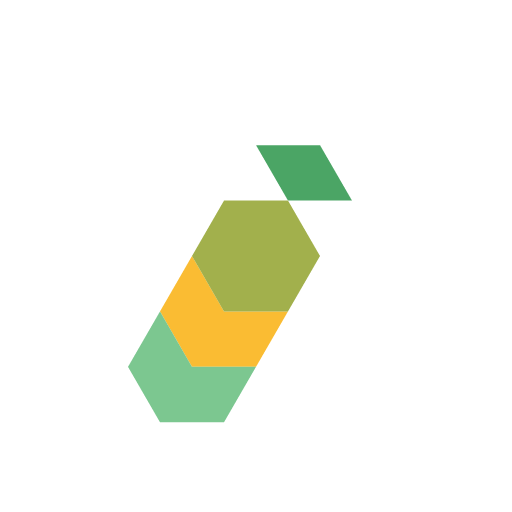
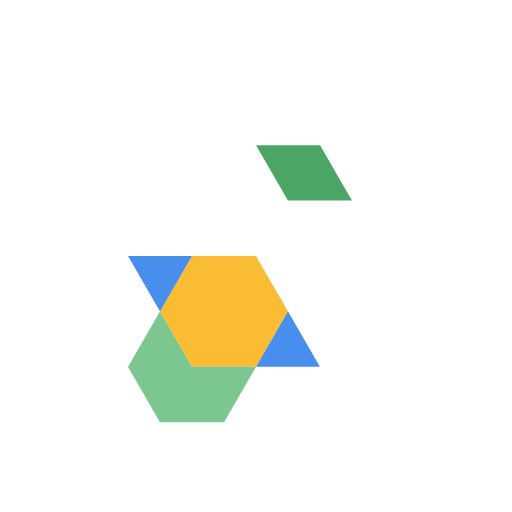
Restore polished emblem defaults

Changed region(s): [[0.25, 0.375, 0.625, 0.7188]]

diff --git a/src/generator/mod.rs b/src/generator/mod.rs
@@ -61,11 +61,9 @@ struct EmblemBlueprint {
 struct LayerSpec {
     min_radius: f64,
     max_radius: f64,
-    focus_radius: f64,
     targets: Vec<f64>,
     width: f64,
     fill_band: bool,
-    max_cells: usize,
 }
 
 impl Generator {
@@ -77,7 +75,7 @@ impl Generator {
             seed,
             grid: None,
             shapes: Vec::new(),
-            theme: Theme::Ink,
+            theme: Theme::Classic,
             allow_overlap: false,
             unique_shapes: false,
             classic_mode: false,
@@ -366,48 +364,38 @@ fn bilateral_blueprint(rng: &mut ChaCha8Rng, unique_shapes: bool) -> EmblemBluep
         shared_core: LayerSpec {
             min_radius: 0.0,
             max_radius: 0.16,
-            focus_radius: 0.08,
             targets: Vec::new(),
             width: 0.0,
             fill_band: true,
-            max_cells: 10,
         },
         layers: vec![
             LayerSpec {
                 min_radius: 0.12,
-                max_radius: 0.42,
-                focus_radius: 0.25,
-                targets: vec![axis - 22.0, axis + 22.0],
-                width: 13.5 + loosen,
+                max_radius: 0.46,
+                targets: vec![axis - 26.0, axis + 26.0],
+                width: 17.0 + loosen,
                 fill_band: false,
-                max_cells: 14,
             },
             LayerSpec {
                 min_radius: 0.18,
-                max_radius: 0.50,
-                focus_radius: 0.32,
+                max_radius: 0.62,
                 targets: vec![axis + 180.0],
-                width: 11.0,
+                width: 16.0,
                 fill_band: false,
-                max_cells: 8,
             },
             LayerSpec {
-                min_radius: 0.32,
-                max_radius: 0.58,
-                focus_radius: 0.46,
-                targets: vec![axis - 54.0, axis + 54.0],
-                width: 8.5 + loosen * 0.5,
-                fill_band: false,
-                max_cells: 8,
-            },
-            LayerSpec {
-                min_radius: 0.38,
-                max_radius: 0.64,
-                focus_radius: 0.52,
+                min_radius: 0.48,
+                max_radius: 0.80,
                 targets: vec![axis - 8.0, axis + 8.0],
-                width: 6.5 + loosen,
+                width: 9.0 + loosen * 0.5,
                 fill_band: false,
-                max_cells: 6,
+            },
+            LayerSpec {
+                min_radius: 0.30,
+                max_radius: 0.56,
+                targets: vec![axis - 54.0, axis + 54.0],
+                width: 10.0 + loosen,
+                fill_band: false,
             },
         ],
     }
@@ -421,40 +409,32 @@ fn triadic_blueprint(rng: &mut ChaCha8Rng, unique_shapes: bool) -> EmblemBluepri
         family: EmblemFamily::Triadic,
         shared_core: LayerSpec {
             min_radius: 0.0,
-            max_radius: 0.18,
-            focus_radius: 0.09,
+            max_radius: 0.20,
             targets: Vec::new(),
             width: 0.0,
             fill_band: true,
-            max_cells: 12,
         },
         layers: vec![
             LayerSpec {
-                min_radius: 0.12,
-                max_radius: 0.42,
-                focus_radius: 0.26,
-                targets: rotated_targets(axis + 12.0, 3, 120.0),
-                width: 12.5 + loosen,
-                fill_band: false,
-                max_cells: 15,
-            },
-            LayerSpec {
-                min_radius: 0.18,
+                min_radius: 0.14,
                 max_radius: 0.50,
-                focus_radius: 0.34,
-                targets: rotated_targets(axis + 72.0, 3, 120.0),
-                width: 9.0 + loosen,
+                targets: rotated_targets(axis + 12.0, 3, 120.0),
+                width: 15.0 + loosen,
                 fill_band: false,
-                max_cells: 10,
             },
             LayerSpec {
-                min_radius: 0.40,
-                max_radius: 0.64,
-                focus_radius: 0.50,
-                targets: rotated_targets(axis + 12.0, 3, 120.0),
-                width: 5.5 + loosen * 0.5,
+                min_radius: 0.22,
+                max_radius: 0.58,
+                targets: rotated_targets(axis + 72.0, 3, 120.0),
+                width: 12.0 + loosen,
                 fill_band: false,
-                max_cells: 6,
+            },
+            LayerSpec {
+                min_radius: 0.50,
+                max_radius: 0.82,
+                targets: rotated_targets(axis + 12.0, 3, 120.0),
+                width: 7.0 + loosen * 0.5,
+                fill_band: false,
             },
         ],
     }
@@ -468,40 +448,32 @@ fn hex_blueprint(rng: &mut ChaCha8Rng, unique_shapes: bool) -> EmblemBlueprint {
         family: EmblemFamily::Hex,
         shared_core: LayerSpec {
             min_radius: 0.0,
-            max_radius: 0.18,
-            focus_radius: 0.10,
+            max_radius: 0.22,
             targets: Vec::new(),
             width: 0.0,
             fill_band: true,
-            max_cells: 12,
         },
         layers: vec![
             LayerSpec {
-                min_radius: 0.14,
-                max_radius: 0.34,
-                focus_radius: 0.24,
+                min_radius: 0.18,
+                max_radius: 0.44,
                 targets: rotated_targets(axis, 6, 60.0),
-                width: 5.5 + loosen,
+                width: 8.5 + loosen,
                 fill_band: false,
-                max_cells: 12,
             },
             LayerSpec {
-                min_radius: 0.22,
-                max_radius: 0.50,
-                focus_radius: 0.36,
-                targets: vec![axis, axis + 60.0, axis + 180.0, axis + 240.0],
-                width: 7.5 + loosen,
-                fill_band: false,
-                max_cells: 10,
-            },
-            LayerSpec {
-                min_radius: 0.38,
+                min_radius: 0.28,
                 max_radius: 0.60,
-                focus_radius: 0.48,
-                targets: vec![axis + 30.0, axis + 150.0, axis + 270.0],
-                width: 5.5 + loosen * 0.5,
+                targets: vec![axis, axis + 60.0, axis + 180.0, axis + 240.0],
+                width: 10.0 + loosen,
                 fill_band: false,
-                max_cells: 6,
+            },
+            LayerSpec {
+                min_radius: 0.54,
+                max_radius: 0.76,
+                targets: vec![axis + 30.0, axis + 150.0, axis + 270.0],
+                width: 7.5 + loosen * 0.5,
+                fill_band: false,
             },
         ],
     }
@@ -521,49 +493,25 @@ fn rotated_targets(start: f64, repeats: usize, step: f64) -> Vec<f64> {
 }
 
 fn select_layer_cells(profiles: &[CellProfile], layer: &LayerSpec) -> Vec<usize> {
-    let mut scored = profiles
+    let mut cells = profiles
         .iter()
         .filter(|profile| {
             if profile.radius < layer.min_radius || profile.radius > layer.max_radius {
                 return false;
             }
-            true
-        })
-        .map(|profile| {
-            let radial_score = (profile.radius - layer.focus_radius).abs();
-            let angle_score = if layer.fill_band || layer.targets.is_empty() {
-                0.0
-            } else {
-                layer
-                    .targets
-                    .iter()
-                    .map(|target| angular_distance(profile.angle, *target))
-                    .fold(f64::INFINITY, f64::min)
-                    / layer.width.max(1.0)
-            };
 
-            let center_bias = if profile.radius > layer.focus_radius {
-                (profile.radius - layer.focus_radius) * 0.1
-            } else {
-                0.0
-            };
+            if layer.fill_band || layer.targets.is_empty() {
+                return true;
+            }
 
-            (profile.cell_id, radial_score + angle_score + center_bias)
+            layer
+                .targets
+                .iter()
+                .any(|target| angular_distance(profile.angle, *target) <= layer.width)
         })
+        .map(|profile| profile.cell_id)
         .collect::<Vec<_>>();
 
-    scored.sort_by(|left, right| {
-        left.1
-            .partial_cmp(&right.1)
-            .unwrap_or(Ordering::Equal)
-            .then_with(|| left.0.cmp(&right.0))
-    });
-
-    let mut cells = scored
-        .into_iter()
-        .take(layer.max_cells.max(1))
-        .map(|(cell_id, _)| cell_id)
-        .collect::<Vec<_>>();
     cells.sort_unstable();
     cells
 }
@@ -691,74 +639,5 @@ mod tests {
             .count();
 
         assert!(center_coverage > 0);
-    }
-
-    #[test]
-    fn modern_generation_is_not_limited_to_complete_rotational_orbits() {
-        let mut generator = Generator::new(5, 4, 0.8, Some(19));
-        generator.set_allow_overlap(false);
-        generator.generate().unwrap();
-
-        let grid = generator.grid().unwrap();
-        let center = grid.hex_grid().center;
-        let lookup = grid
-            .cells()
-            .iter()
-            .map(|cell| (point_key(cell.centroid), cell.id))
-            .collect::<std::collections::HashMap<_, _>>();
-
-        let shape = generator
-            .shapes()
-            .iter()
-            .find(|shape| !shape.is_empty())
-            .unwrap();
-
-        let has_partial_orbit = shape.cells.iter().any(|cell_id| {
-            let cell = grid.get_cell(*cell_id).unwrap();
-            let orbit_matches = (1..6)
-                .filter_map(|turns| {
-                    lookup_rotated_cell_id(grid, &lookup, cell.centroid, turns, center)
-                })
-                .filter(|rotated_id| shape.cells.contains(rotated_id))
-                .count();
-            orbit_matches > 0 && orbit_matches < 5
-        });
-
-        assert!(has_partial_orbit);
-    }
-
-    fn point_key(point: Point) -> (i64, i64) {
-        (
-            (point.x * 100_000.0).round() as i64,
-            (point.y * 100_000.0).round() as i64,
-        )
-    }
-
-    fn rotate_point(point: Point, turns: usize, center: Point) -> Point {
-        let angle = turns as f64 * std::f64::consts::PI / 3.0;
-        let translated_x = point.x - center.x;
-        let translated_y = point.y - center.y;
-
-        Point::new(
-            center.x + translated_x * angle.cos() - translated_y * angle.sin(),
-            center.y + translated_x * angle.sin() + translated_y * angle.cos(),
-        )
-    }
-
-    fn lookup_rotated_cell_id(
-        grid: &TriangularGrid,
-        lookup: &std::collections::HashMap<(i64, i64), usize>,
-        point: Point,
-        turns: usize,
-        center: Point,
-    ) -> Option<usize> {
-        let rotated = rotate_point(point, turns, center);
-
-        lookup.get(&point_key(rotated)).copied().or_else(|| {
-            grid.cells()
-                .iter()
-                .find(|cell| cell.centroid.distance(&rotated) < 1e-4)
-                .map(|cell| cell.id)
-        })
     }
 }

diff --git a/src/cli/mod.rs b/src/cli/mod.rs
@@ -28,8 +28,8 @@ pub struct Cli {
     #[arg(short, long)]
     pub uuid: Option<String>,
 
-    /// Color theme (ink, horizon, ember, citrus, orchid, classic, google, blues, greens, reds, purples, rainbow)
-    #[arg(short = 't', long = "theme", default_value = "ink")]
+    /// Color theme (classic, ink, horizon, ember, citrus, orchid, google, blues, greens, reds, purples, rainbow)
+    #[arg(short = 't', long = "theme", default_value = "classic")]
     pub theme: String,
 
     /// Number of shapes to generate

diff --git a/README.md b/README.md
@@ -15,7 +15,7 @@ The web frontend has been removed. The repo is intentionally focused on local CL
 
 - Random or seeded logo generation
 - SVG or PNG output
-- Emblem-first modern mode with bilateral, triadic, and restrained hex composition by default
+- Emblem-first modern mode with the polished centered composition restored as the default
 - Classic mode with a fixed 24-triangle layout
 - Multiple color themes: `ink`, `horizon`, `ember`, `citrus`, `orchid`, `classic`, `google`, `blues`, `greens`, `reds`, `purples`, `rainbow`
 - Clipboard copy support
@@ -34,7 +34,7 @@ nix develop -c cargo run -- --format svg output/logo.svg
 You can also use the app entrypoint directly:
 
 ```bash
-nix run . -- --seed 42 --theme ink output/logo.png
+nix run . -- --seed 42 --theme classic output/logo.png
 ```
 
 ### With a local Rust toolchain
@@ -54,7 +54,7 @@ hexalith [OPTIONS] [OUTPUT]
 Examples:
 
 ```bash
-# Default PNG output (`ink` theme)
+# Default PNG output (`classic` theme)
 cargo run -- output/logo.png
 
 # SVG with deterministic seed
@@ -113,4 +113,4 @@ nix develop -c cargo clippy --all-targets --all-features
 
 ## Rendering notes
 
-Modern mode now builds logos from seeded emblem blueprints instead of full six-way rotational orbits. The defaults bias toward compact, center-led silhouettes, fewer outer repetitions, clearer negative space, and more deliberate inner structure while staying deterministic from the CLI.
+Modern mode now builds logos from seeded emblem blueprints with the earlier polished centered composition restored as the default. The CLI remains deterministic, and the expanded theme set can be applied on top of that baseline.
